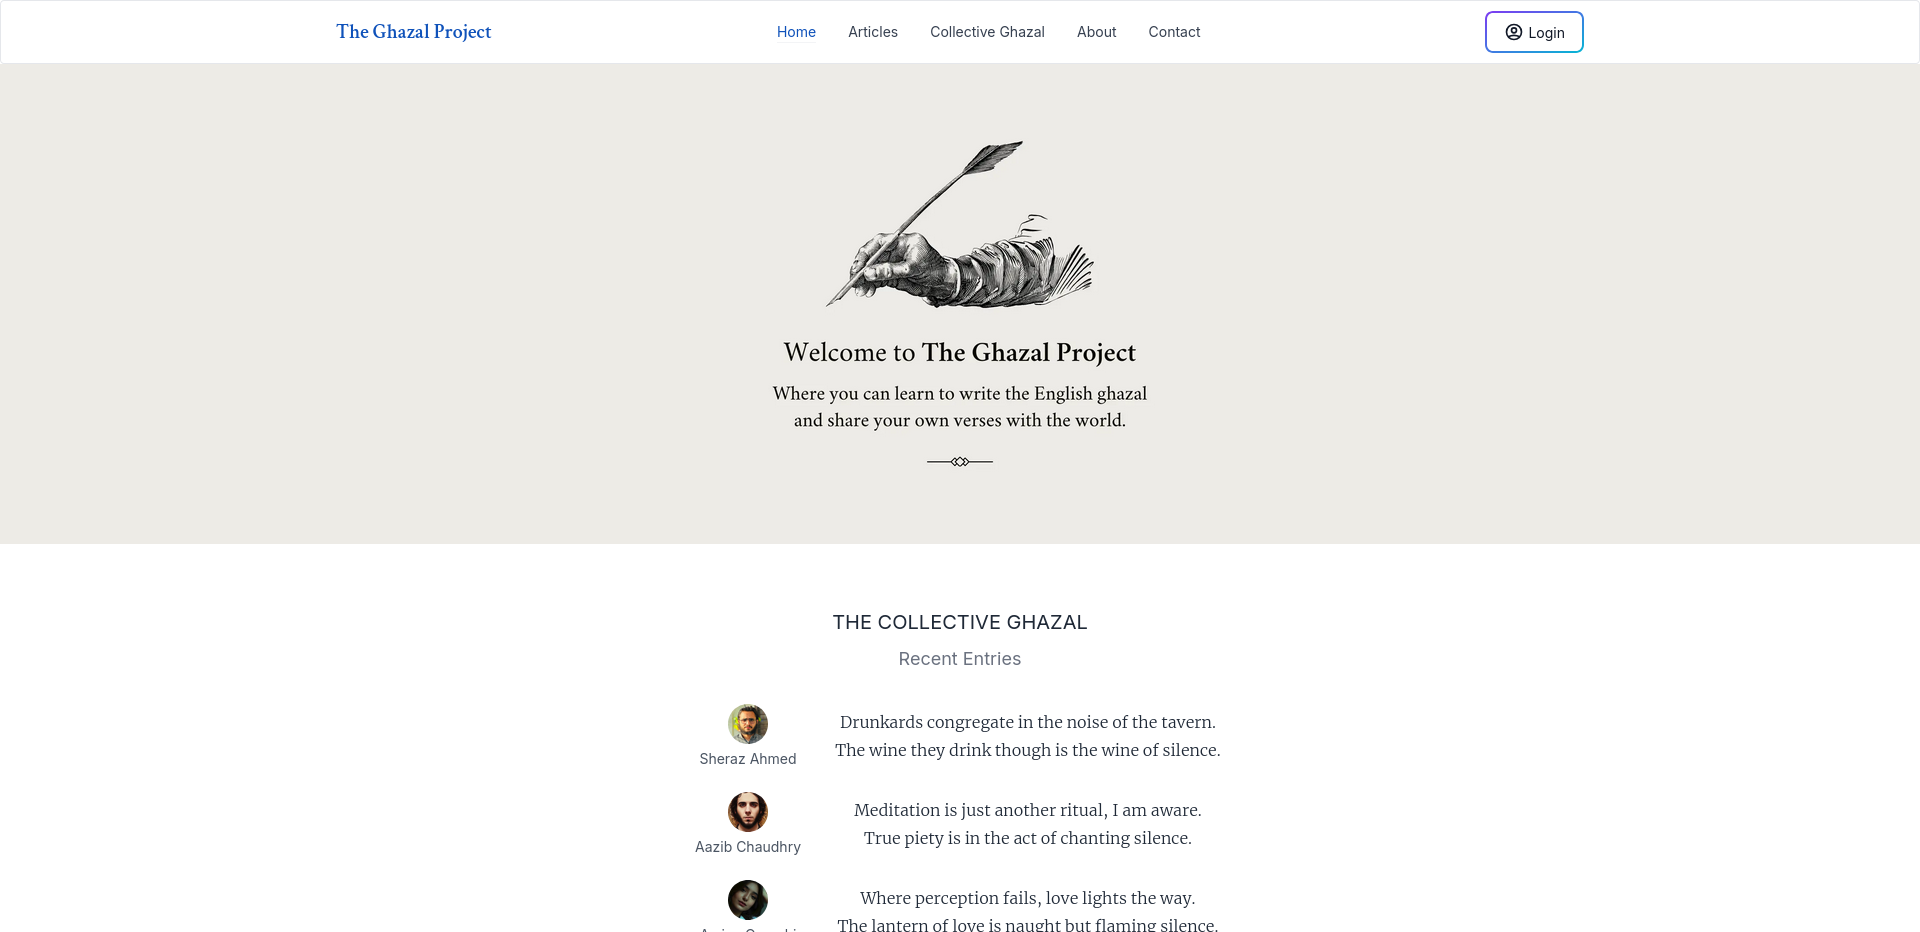
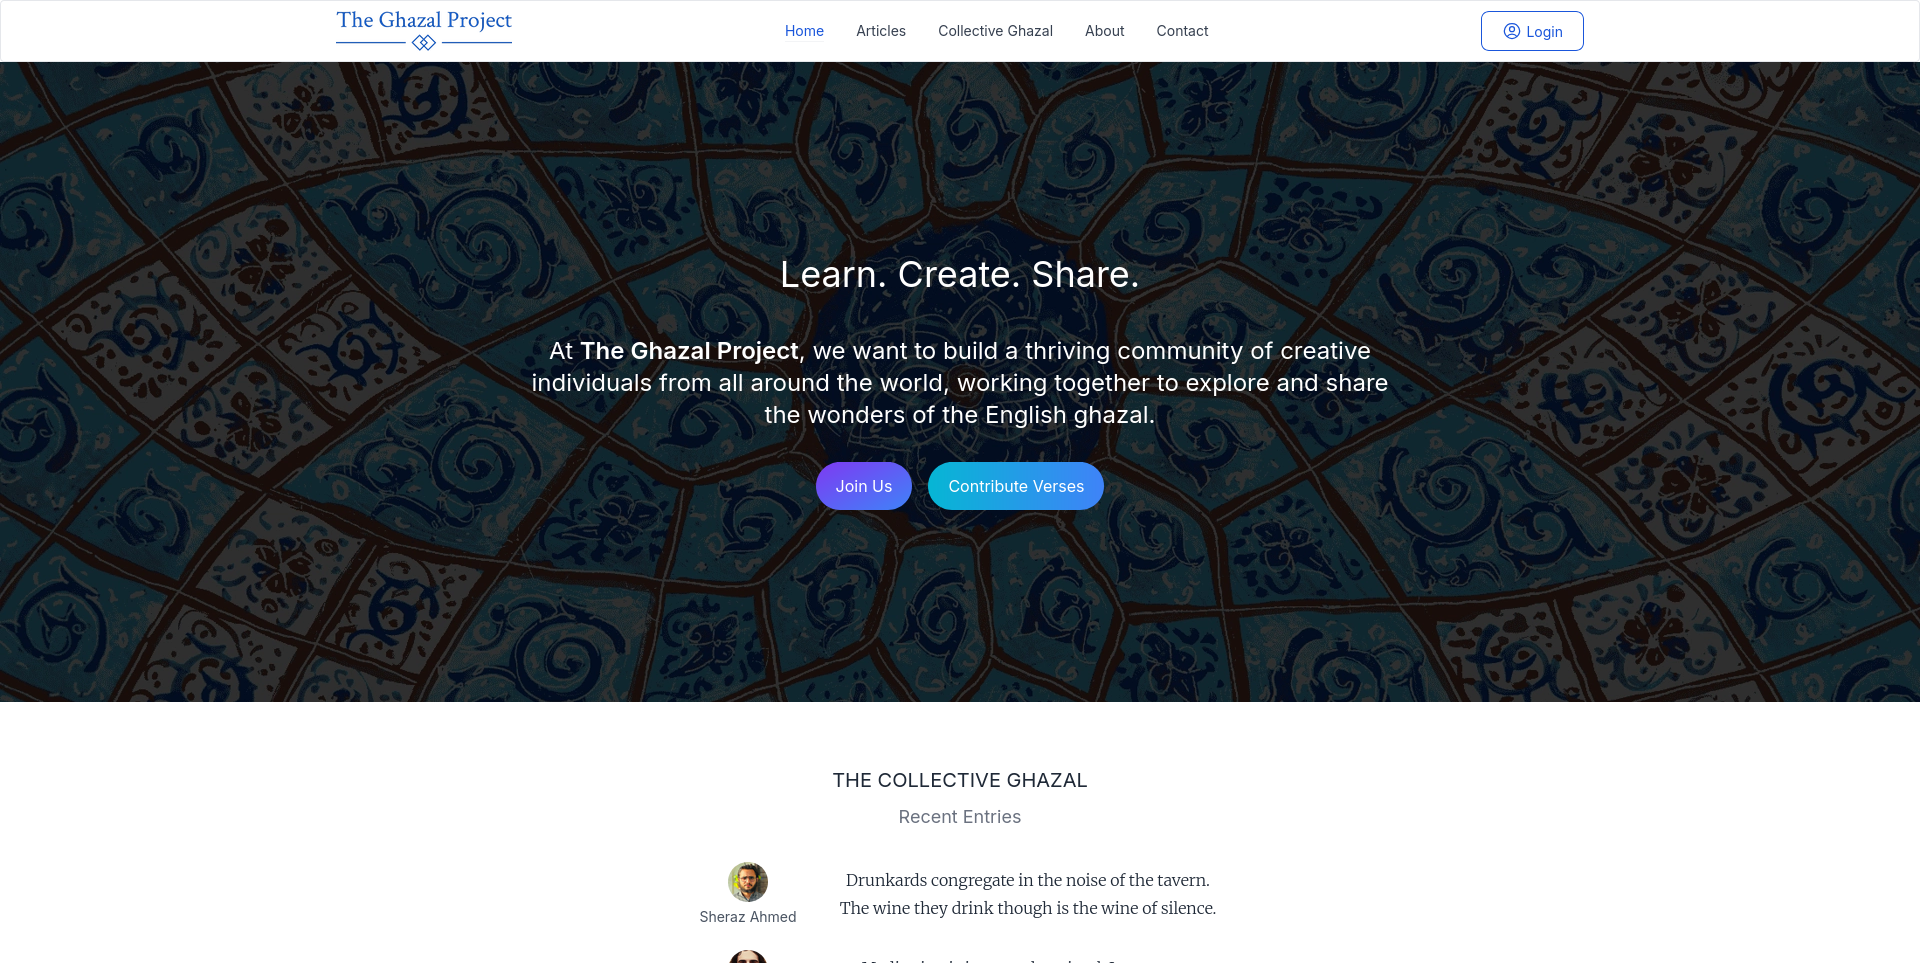
Update projects

diff --git a/src/sections/ProjectsSection/ProjectsGrid.js b/src/sections/ProjectsSection/ProjectsGrid.js
@@ -1,7 +1,8 @@
 import { Grid } from '@mui/material';
 import Project from './Project';
 import ReadsTrackerScreen from './screenshots/readstracker.png';
-import SimonScreen from './screenshots/simon.png';
+// import SimonScreen from './screenshots/simon.png';
+
 import YumYumScreen from './screenshots/yumyum.png';
 import VirtuaVisageScreen from './screenshots/virtuavisage.png';
 import CummingsBreitenbergScreen from './screenshots/cummingsbreitenberg.png';
@@ -9,8 +10,29 @@ import WebsoftScreen from './screenshots/websoft.png';
 import ZephyrMessengerScreen from './screenshots/zephyrmessenger.png';
 import GreenEatsScreen from './screenshots/greeneats.png';
 import TheGhazalProjectScreen from './screenshots/theghazalproject.png';
+import LuckySkyBirdsScreen from './screenshots/luckyskybirds.png';
+
+// const olderProjects = [
+//   {
+//     title: 'Simon Game',
+//     tech: ['HTML', 'CSS', 'JavaScript'],
+//     image: SimonScreen,
+//     links: {
+//       demo: 'https://simon-production.netlify.app/',
+//       repo: 'https://github.com/aazibch/simon/'
+//     }
+//   }
+// ];
 
 const projects = [
+  {
+    title: 'Lucky Sky Birds Technical Services',
+    tech: ['WordPress'],
+    image: LuckySkyBirdsScreen,
+    links: {
+      demo: 'https://luckyskybirds.com/'
+    }
+  },
   {
     title: 'The Ghazal Project',
     tech: ['Next', 'MongoDB', 'NextAuth'],
@@ -80,15 +102,6 @@ const projects = [
     links: {
       demo: 'https://yumyum-production.netlify.app/',
       repo: 'https://github.com/aazibch/yumyum/'
-    }
-  },
-  {
-    title: 'Simon Game',
-    tech: ['HTML', 'CSS', 'JavaScript'],
-    image: SimonScreen,
-    links: {
-      demo: 'https://simon-production.netlify.app/',
-      repo: 'https://github.com/aazibch/simon/'
     }
   }
 ];
